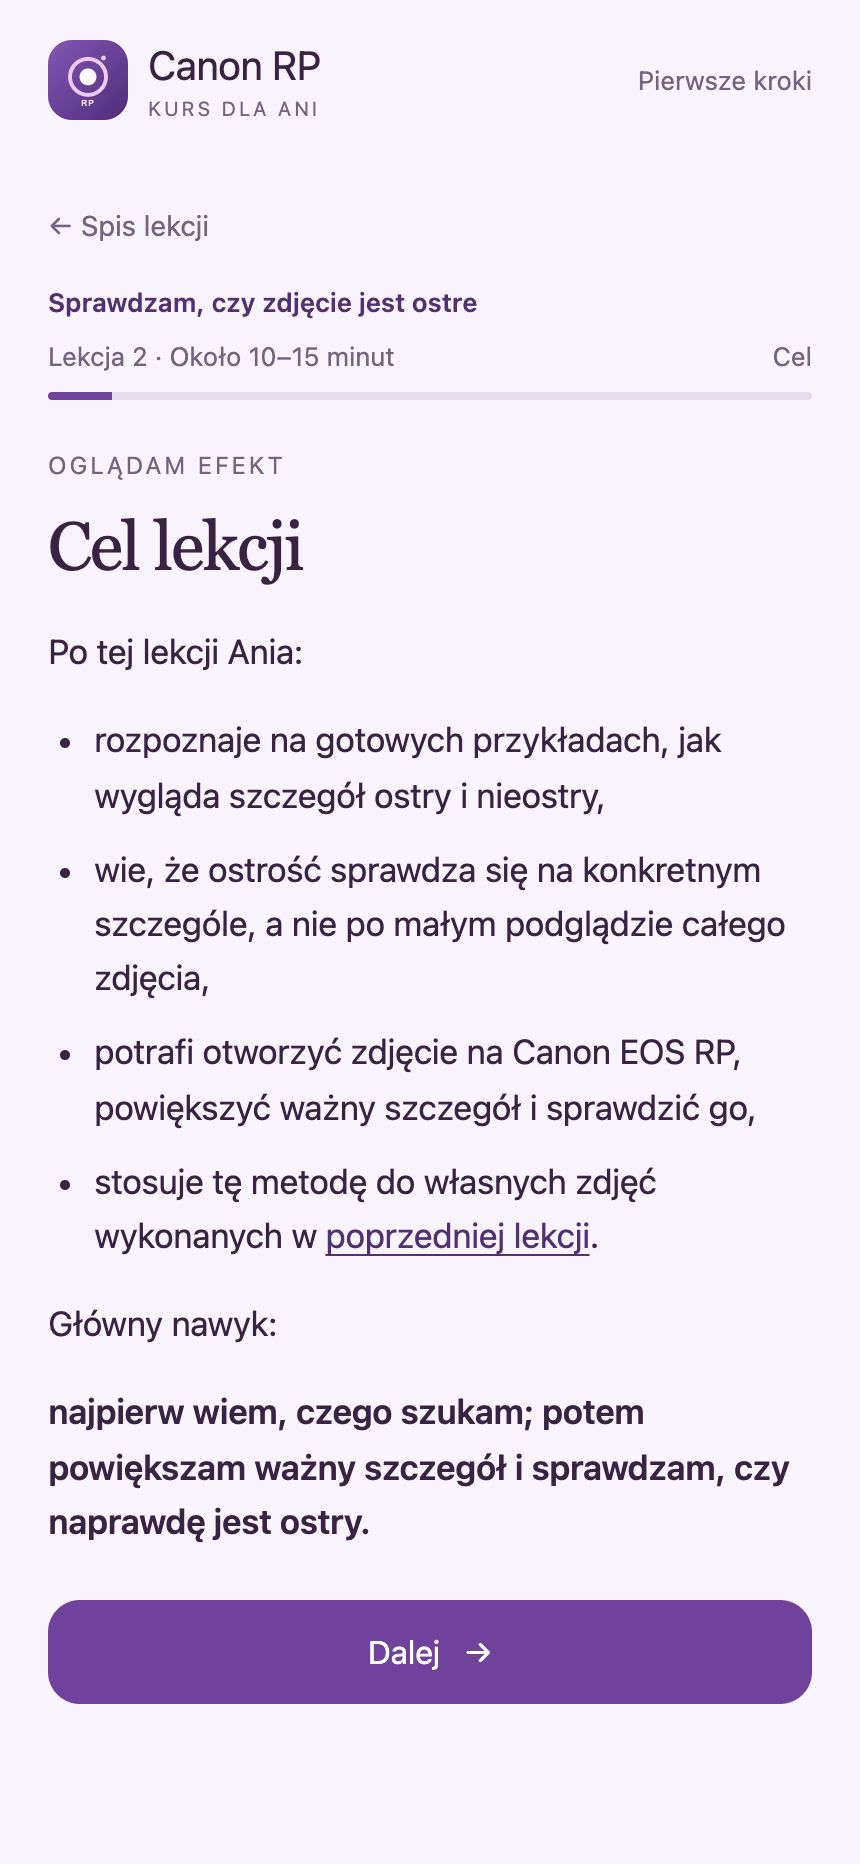
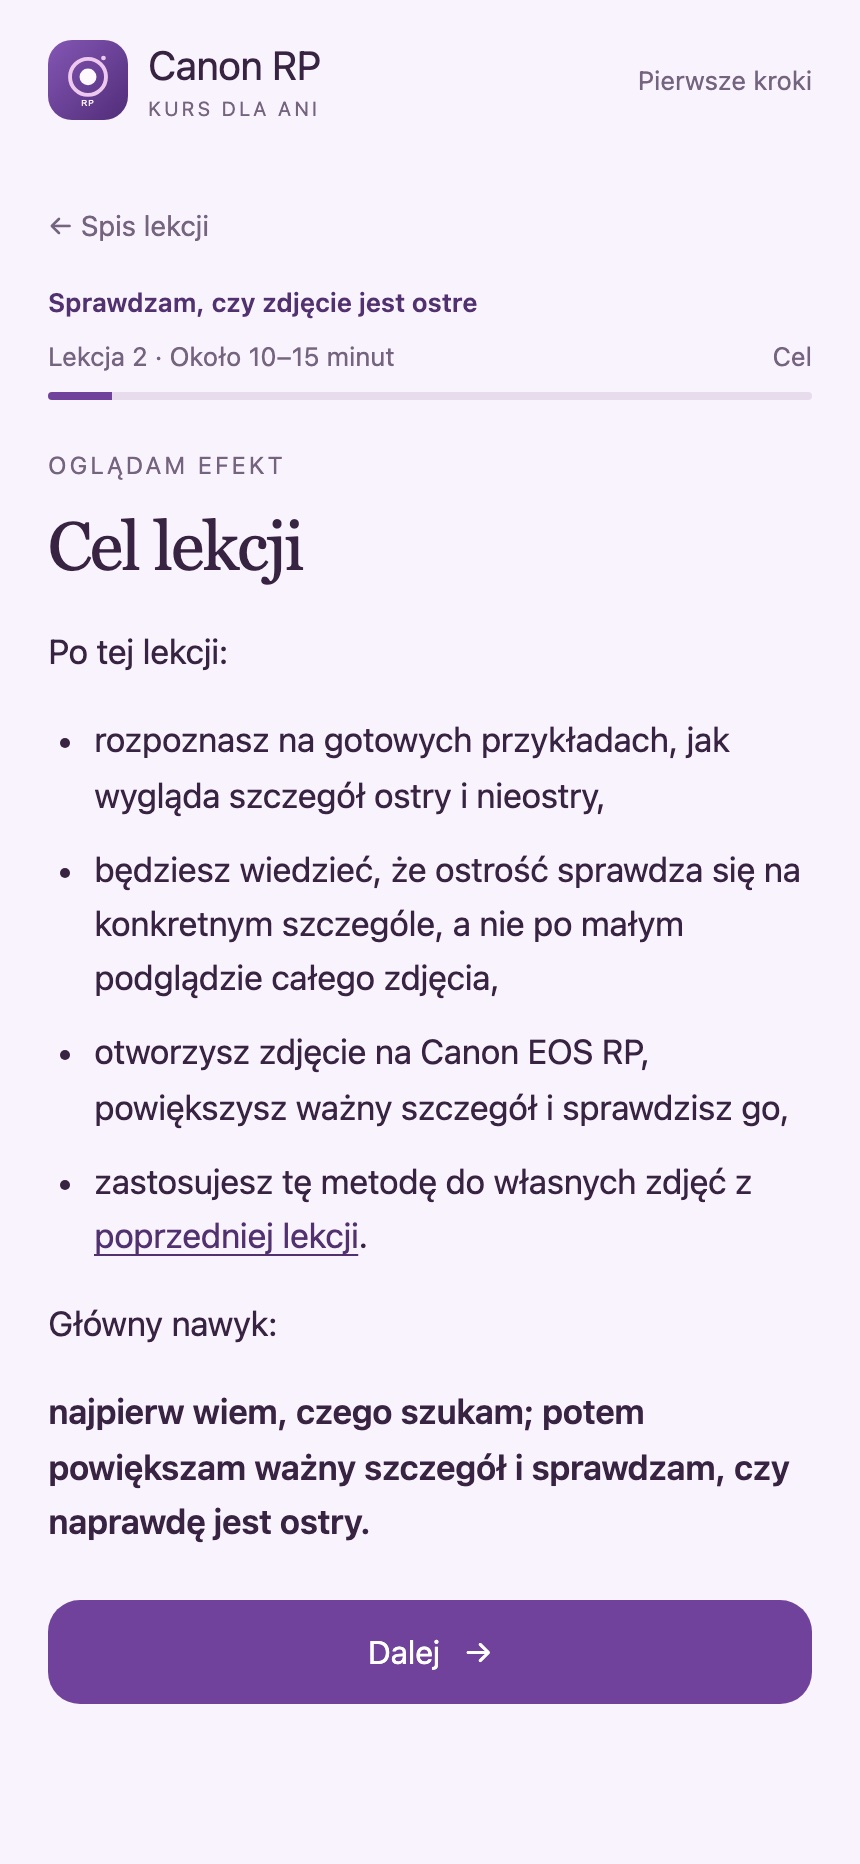
App: direct address in lesson goals; one goal heading in L1-01..L1-04

Changed region(s): [[0.0907, 0.4356, 0.9372, 0.6845], [0.2721, 0.3423, 0.8465, 0.4045]]

diff --git a/app/dist/lessons.js b/app/dist/lessons.js
@@ -7,7 +7,7 @@ window.CANON_LESSONS = [
     "category": "Oswajam aparat",
     "duration": "Około 15 minut",
     "intro": {
-      "title": "Cel",
+      "title": "Cel lekcji",
       "body": "Nauczyć się jednego świadomego cyklu wykonania zdjęcia: **wyceluj → naciśnij spust do połowy → poczekaj na wizualne potwierdzenie ostrości → spokojnie dociśnij spust do końca.**\n\nNie musisz jeszcze znać przysłony, czasu naświetlania, ISO ani menu."
     },
     "steps": [
@@ -239,7 +239,7 @@ window.CANON_LESSONS = [
     "duration": "Około 10–15 minut",
     "intro": {
       "title": "Cel lekcji",
-      "body": "Po tej lekcji Ania:\n- rozpoznaje na gotowych przykładach, jak wygląda szczegół ostry i nieostry,\n- wie, że ostrość sprawdza się na konkretnym szczególe, a nie po małym podglądzie całego zdjęcia,\n- potrafi otworzyć zdjęcie na Canon EOS RP, powiększyć ważny szczegół i sprawdzić go,\n- stosuje tę metodę do własnych zdjęć wykonanych w [[L1-01|poprzedniej lekcji]].\n\nGłówny nawyk:\n\n**najpierw wiem, czego szukam; potem powiększam ważny szczegół i sprawdzam, czy naprawdę jest ostry.**"
+      "body": "Po tej lekcji:\n- rozpoznasz na gotowych przykładach, jak wygląda szczegół ostry i nieostry,\n- będziesz wiedzieć, że ostrość sprawdza się na konkretnym szczególe, a nie po małym podglądzie całego zdjęcia,\n- otworzysz zdjęcie na Canon EOS RP, powiększysz ważny szczegół i sprawdzisz go,\n- zastosujesz tę metodę do własnych zdjęć z [[L1-01|poprzedniej lekcji]].\n\nGłówny nawyk:\n\n**najpierw wiem, czego szukam; potem powiększam ważny szczegół i sprawdzam, czy naprawdę jest ostry.**"
     },
     "steps": [
       {
@@ -544,7 +544,7 @@ window.CANON_LESSONS = [
     "duration": "Około 15–20 minut",
     "intro": {
       "title": "Cel lekcji",
-      "body": "Po tej lekcji Ania:\n- zauważa, że zdjęcie można wyraźnie poprawić bez zmiany ustawień aparatu,\n- świadomie wybiera kadr poziomy albo pionowy,\n- przed wykonaniem zdjęcia sprawdza cztery brzegi kadru,\n- potrafi uprościć tło przez zmianę własnej pozycji lub wysokości aparatu,\n- rozumie, że RF 50 mm F1.8 STM jest obiektywem stałoogniskowym: aby zmienić wielkość przedmiotu w kadrze, zmienia miejsce fotografowania, a nie „zoom”.\n\nGłówny nawyk:\n\n**zanim zrobię zdjęcie, patrzę na główny przedmiot, brzegi kadru i tło.**\n\n**Punkt startowy**\n\nZostaw aparat w trybie **A+**.\n\nW tej lekcji nie zmieniasz żadnych ustawień aparatu.\n\nWybierz jeden nieruchomy przedmiot, który później wykorzystasz w ćwiczeniu. Najlepiej coś prostego i wyraźnego: kubek, książkę, roślinę, figurkę albo inny przedmiot, który łatwo zauważyć na tle otoczenia."
+      "body": "Po tej lekcji:\n- zauważysz, że zdjęcie można wyraźnie poprawić bez zmiany ustawień aparatu,\n- świadomie wybierzesz kadr poziomy albo pionowy,\n- przed zrobieniem zdjęcia sprawdzisz cztery brzegi kadru,\n- uprościsz tło, zmieniając swoją pozycję albo wysokość aparatu,\n- zrozumiesz, że RF 50 mm F1.8 STM jest obiektywem stałoogniskowym: żeby zmienić wielkość przedmiotu w kadrze, zmieniasz miejsce fotografowania, a nie „zoom”.\n\nGłówny nawyk:\n\n**zanim zrobię zdjęcie, patrzę na główny przedmiot, brzegi kadru i tło.**\n\n**Punkt startowy**\n\nZostaw aparat w trybie **A+**.\n\nW tej lekcji nie zmieniasz żadnych ustawień aparatu.\n\nWybierz jeden nieruchomy przedmiot, który później wykorzystasz w ćwiczeniu. Najlepiej coś prostego i wyraźnego: kubek, książkę, roślinę, figurkę albo inny przedmiot, który łatwo zauważyć na tle otoczenia."
     },
     "steps": [
       {
@@ -780,7 +780,7 @@ window.CANON_LESSONS = [
     "duration": "Około 15–20 minut",
     "intro": {
       "title": "Cel lekcji",
-      "body": "Po tej lekcji Ania:\n- wie, że aparat ustawia ostrość na jedną odległość i że to, co jest bliżej albo dalej, może wyglądać nieostro,\n- przestawia aparat z A+ na tryb P,\n- ustawia jeden punkt ostrości i przesuwa go na wybrany przedmiot,\n- sprawdza w powiększeniu, czy ostry jest ten przedmiot, który wybrała.\n\nGłówny nawyk:\n\n**zanim nacisnę spust, decyduję, co ma być ostre, i ustawiam tam punkt ostrości.**\n\n**Punkt startowy**\n\nAparat jest w trybie **A+**, tak jak po poprzednich lekcjach.\n\nPrzygotuj dwa nieruchome przedmioty. Najlepiej takie, na których jest wyraźny szczegół: napis, krawędź, wzór. Na przykład kubek z napisem i książkę.\n\nĆwicz w dobrym świetle dziennym."
+      "body": "Po tej lekcji:\n- będziesz wiedzieć, że aparat ustawia ostrość na jedną odległość, a to, co jest bliżej albo dalej, może wyglądać nieostro,\n- przestawisz aparat z A+ na tryb P,\n- ustawisz jeden punkt ostrości i przesuniesz go na wybrany przedmiot,\n- sprawdzisz w powiększeniu, czy ostry jest przedmiot, który wybrałaś.\n\nGłówny nawyk:\n\n**zanim nacisnę spust, decyduję, co ma być ostre, i ustawiam tam punkt ostrości.**\n\n**Punkt startowy**\n\nAparat jest w trybie **A+**, tak jak po poprzednich lekcjach.\n\nPrzygotuj dwa nieruchome przedmioty. Najlepiej takie, na których jest wyraźny szczegół: napis, krawędź, wzór. Na przykład kubek z napisem i książkę.\n\nĆwicz w dobrym świetle dziennym."
     },
     "steps": [
       {
